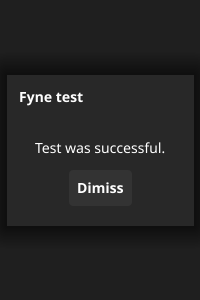
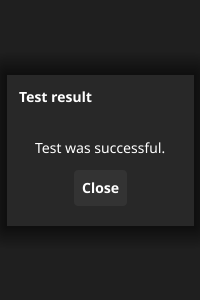
update seticon tests

Changed region(s): [[0.09, 0.3, 0.45, 0.36], [0.39, 0.6, 0.63, 0.66]]

diff --git a/dialog/custom_test.go b/dialog/custom_test.go
@@ -143,7 +143,7 @@ func TestCustomConfirm_Importance(t *testing.T) {
 	test.AssertRendersToImage(t, "dialog-custom-confirm-importance.png", w.Canvas())
 }
 
-func TestCustomSetIconSuccess(t *testing.T) {
+func TestCustom_SetIcon(t *testing.T) {
 	test.NewTempApp(t)
 	w := test.NewTempWindow(t, canvas.NewRectangle(color.Transparent))
 	size := fyne.NewSize(200, 300)
@@ -156,17 +156,8 @@ func TestCustomSetIconSuccess(t *testing.T) {
 	d.Show()
 
 	test.AssertRendersToImage(t, "dialog-custom-seticon-success.png", w.Canvas())
-}
 
-func TestCustomSetIconNil(t *testing.T) {
-	test.NewTempApp(t)
-	w := test.NewTempWindow(t, canvas.NewRectangle(color.Transparent))
-	size := fyne.NewSize(200, 300)
-	w.Resize(size)
-
-	test.ApplyTheme(t, test.Theme())
-	label := widget.NewLabel("Test was successful.")
-	d := NewCustom("Fyne test", "Dimiss", label, w)
+	d.Hide()
 	d.SetIcon(nil)
 	d.Show()
 
